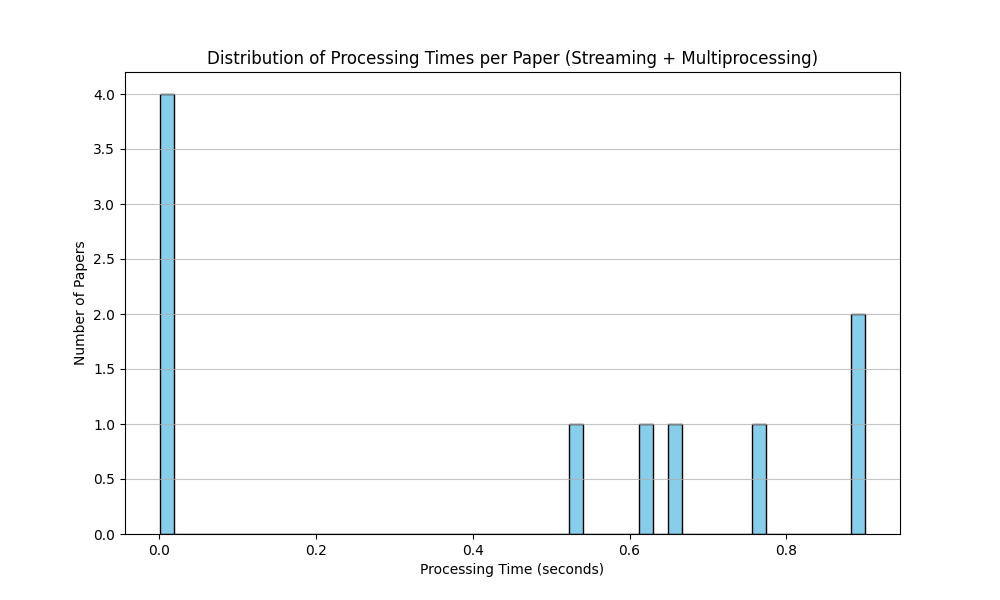
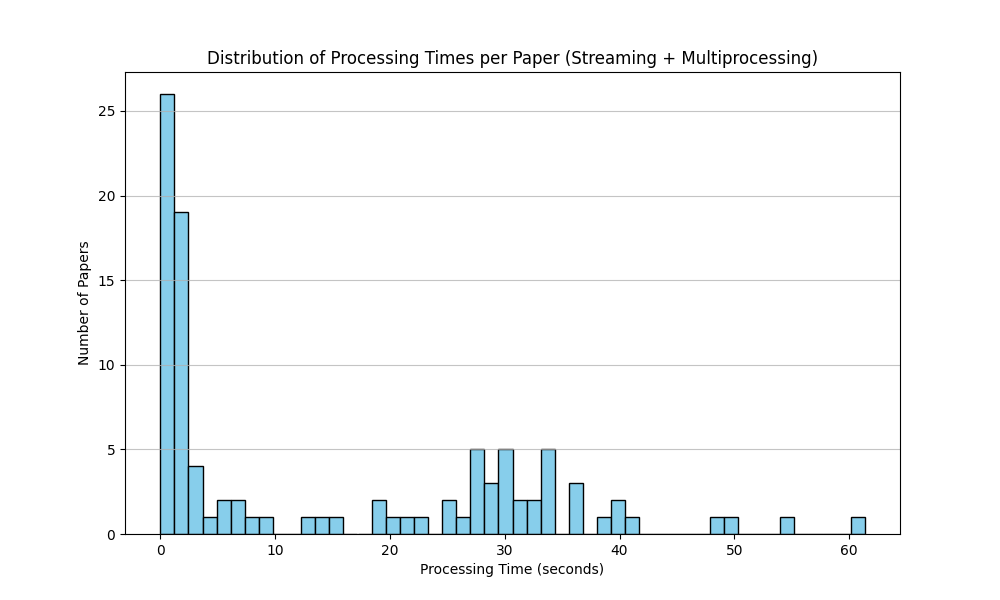
new column added to the output parquet

diff --git a/src/pipeline_parquet.py b/src/pipeline_parquet.py
@@ -70,6 +70,8 @@ def process_single_paper(row, ror_orgs, ror_orgs_dict):
 
         extracted_result = None
         matched_result = None
+        # variable for AI output
+        ai_result = None
         status = "extraction_failed"
 
         try:
@@ -92,6 +94,10 @@ def process_single_paper(row, ror_orgs, ror_orgs_dict):
             if not ext_info:
                 logger.info(f"Traditional extraction failed for {paper_id}. Switching to AI Fallback...")
                 ext_info = ai_fallback.extract_with_ollama(full_latex_text, meta_obj)
+
+                # AI successfully extracted info
+                if ext_info:
+                    ai_result = jsonpickle.encode(ext_info)
 
 
             if ext_info:
@@ -117,60 +123,15 @@ def process_single_paper(row, ror_orgs, ror_orgs_dict):
         paper_end_time = time.perf_counter()
         duration = paper_end_time - paper_start_time
 
-        return extracted_result, matched_result, status, duration
+        return extracted_result, matched_result, ai_result, status, duration
 
 
-"""def process_single_paper(row, ror_orgs, ror_orgs_dict):
-    Handles the processing for a single row to be run in a separate process.
-    paper_start_time = time.perf_counter()
 
-    # extract data from row
-    paper_id = row['id']
-    full_latex_text = row['text']
-    metadata_raw = row['metadata']
-
-    # parse the metadat
-    meta_obj = parse_metadata(metadata_raw, paper_id)
-    # extract latex commands
-    ext_cmds = extract_cmds.extract_cmds_from_string(full_latex_text)
-    # extract autor and affiliations
-    ext_info = extract_author_aff.extract_affiliations_from_obj(ext_cmds, meta_obj)
-
-    # the AI fallback
-
-    if ext_info is None:
-     logger.info(f"Traditional extraction failed for {paper_id}. Switching to AI Fallback...")
-     ext_info = ai_fallback.extract_with_ollama(full_latex_text, meta_obj)
-
-
-    extracted_result = None
-    matched_result = None
-    status = "extraction_failed"
-
-
-    if ext_info:
-        # convert to json
-        extracted_result = jsonpickle.encode(ext_info)
-        # match org
-        final_data = match_data.match_and_resolve_single_paper(
-            meta_obj, ext_info, ror_orgs, ror_orgs_dict
-        )
-
-        if final_data:
-            matched_result = jsonpickle.encode(final_data)
-            status = "success"
-        else:
-            status = "matching_failed"
-
-    paper_end_time = time.perf_counter()
-    duration = paper_end_time - paper_start_time
-
-    return extracted_result, matched_result, status, duration"""
 
 
 def main():
 
-    INPUT_FILE = "math_subset.parquet"
+    INPUT_FILE = "math_100.parquet"
     OUTPUT_FILE = "math_sample_processed.parquet"
 
     # start time
@@ -186,8 +147,8 @@ def main():
     # Create a partial function with the ROR data permanently attached to it
     worker_func = partial(process_single_paper, ror_orgs=ror_orgs, ror_orgs_dict=ror_orgs_dict)
 
-    MAX_CORES = 7
-    BATCH_SIZE = 5000  # Number of rows to load into RAM at a time
+    MAX_CORES = 4
+    BATCH_SIZE = 50 # Number of rows to load into RAM at a time
 
     # Diagnostics tracking
     success_count = 0
@@ -214,16 +175,18 @@ def main():
 
             # Execute the batch in parallel
             # While one row waits for AI, another core picks up the next row for extraction
-            results = list(executor.map(worker_func, rows, chunksize=150))
+            results = list(executor.map(worker_func, rows, chunksize=10))
 
             # Prepare columns for the results
             extracted_results_column = []
             matched_results_column = []
+            ai_results_column = []
 
             # Unpack the results
-            for ext_res, match_res, status, duration in results:
+            for ext_res, match_res, ai_res, status, duration in results:
                 extracted_results_column.append(ext_res)
                 matched_results_column.append(match_res)
+                ai_results_column.append(ai_res)
                 paper_processing_times.append(duration)
 
                 if status == "success":
@@ -236,7 +199,8 @@ def main():
             # Append the new results as columns to the current batch
             df_batch = df_batch.with_columns([
                 pl.Series("extracted_info", extracted_results_column),
-                pl.Series("matched_info", matched_results_column)
+                pl.Series("matched_info", matched_results_column),
+                pl.Series("ai_output", ai_results_column)
             ])
 
             # Convert back to PyArrow table for writing

diff --git a/src/ai_fallback.py b/src/ai_fallback.py
@@ -1,6 +1,8 @@
 import logging
 import ollama
 # new library
+
+import re
 from pydantic import BaseModel
 from typing import List
 from definition.data.Author import Author as AIExtAuthor
@@ -36,7 +38,7 @@ def get_latex_preamble(text_content: str) -> str:
 
 # text_content: str =  input
 # ExtAuthorInfo = output
-def extract_with_ollama(text_content: str, arxiv_metadata, model_name: str = "gemma3:1b") -> ExtAuthorInfo:
+def extract_with_ollama(text_content: str, arxiv_metadata, model_name: str = "llama3.2") -> ExtAuthorInfo:
     """
     Sends text to Ollama and enforces a structured JSON response.
     Returns an ExtAuthorInfo object to maintain compatibility with the pipeline.
